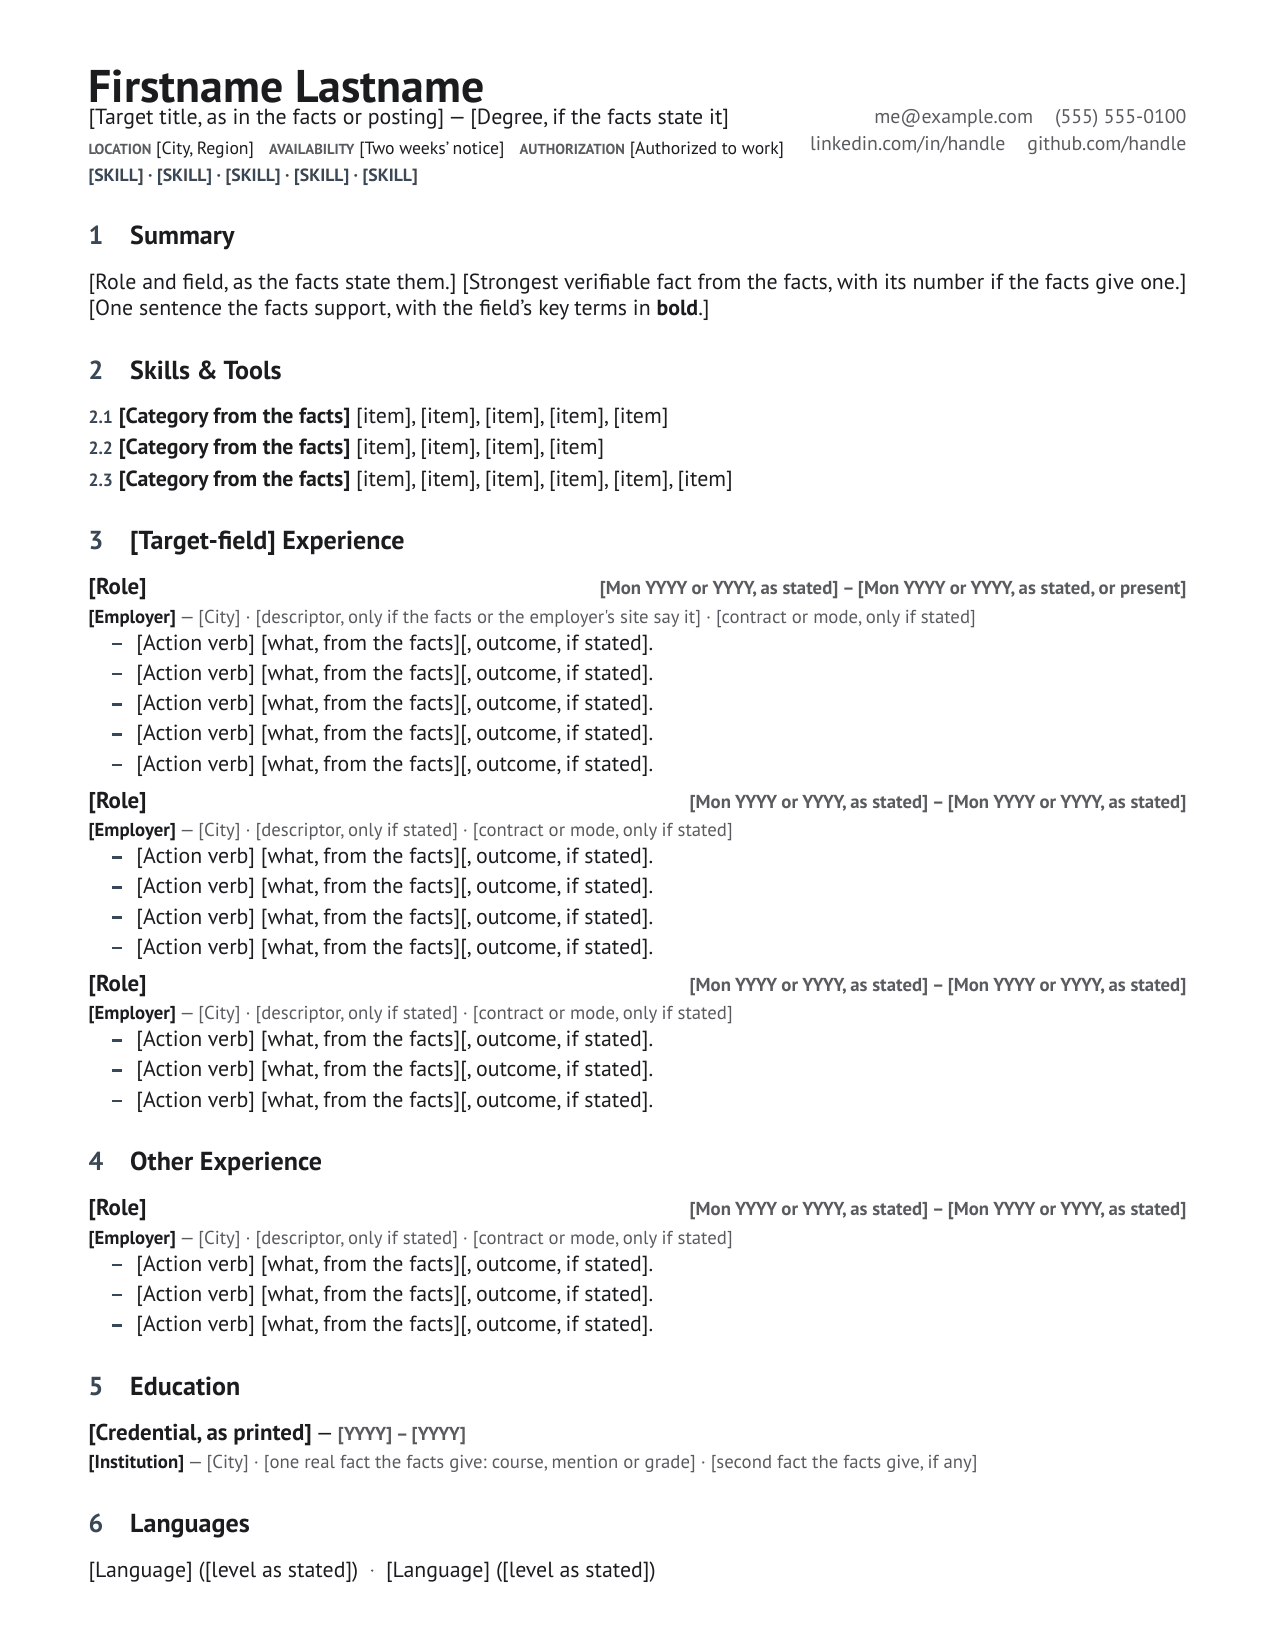
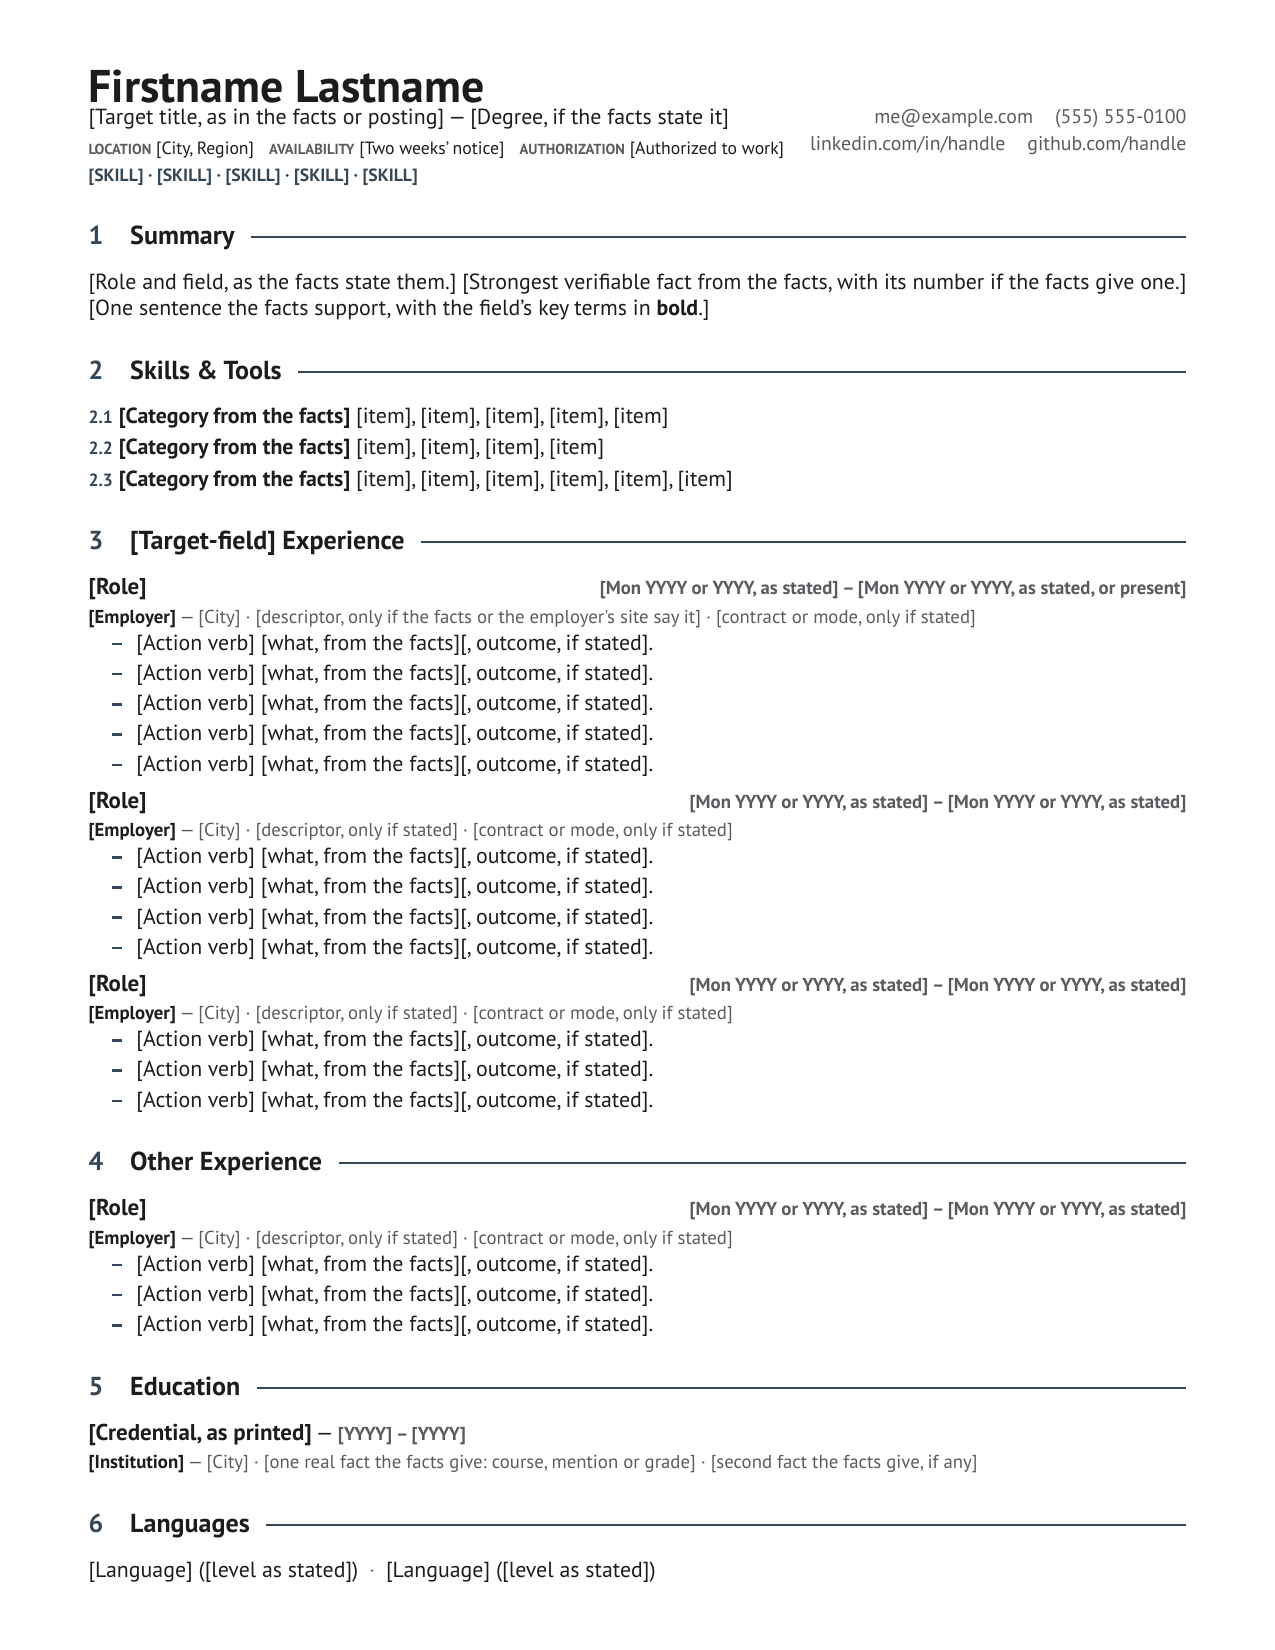
clause-index: section-rule option (inline default, under, under-short, none)
Section headings get a 1pt accent hairline filling the heading row by default; the
other values draw it under the heading, as a short bar under number and title, or not
at all (the original look). Space under the heading is unchanged for every value, so
résumé and pair-b stay on one page and the extracted text is identical (the rule is a
vector line). An unknown value is a compile error listing the valid ones. Test compiles
all four values on both templates (one page, same words, each draws differently) and
the error case. Fixture and gallery image regenerated; role-line ratio fixed in the
family doc (10.5pt, not 11pt).

diff --git a/tests/integration/test_clause_index_rule.py b/tests/integration/test_clause_index_rule.py
@@ -1,0 +1,56 @@
+"""clause-index `section-rule`: every value compiles to one page with the same extracted text (the rule is a vector
+line, never text), and a value outside the list is a compile error that names the valid ones."""
+from __future__ import annotations
+
+from pathlib import Path
+
+import pytest
+from vitae.core.env import pdf_backend
+from vitae.verify.pdf import count_pages, extract_text, typst_compile
+
+VALUES = ("inline", "under", "under-short", "none")
+DEFAULT = '#let section-rule = "inline"'
+
+
+def variant(scratch: Path, name: str, value: str) -> Path:
+    fam = scratch / "templates" / "families" / "clause-index"
+    src = (fam / f"{name}.typ").read_text(encoding="utf-8")
+    assert src.count(DEFAULT) == 1, f"{name}.typ: the section-rule declaration moved"
+    out = fam / f"_rule-{name}-{value}.typ"
+    out.write_text(src.replace(DEFAULT, f'#let section-rule = "{value}"'), encoding="utf-8")
+    return out
+
+
+def build(typ: Path) -> tuple[bool, str, Path]:
+    pdf = typ.with_suffix(".pdf")
+    ok, err = typst_compile(str(typ), str(pdf))
+    return ok, err, pdf
+
+
+@pytest.mark.parametrize("name", ["resume", "resume-pair-b"])
+def test_every_section_rule_is_one_page_and_text_neutral(scratch: Path, name: str) -> None:
+    backend = pdf_backend()
+    tokens: dict[str, list[str]] = {}
+    for value in VALUES:
+        ok, err, pdf = build(variant(scratch, name, value))
+        assert ok, f"{name} section-rule={value}: {err}"
+        assert count_pages(str(pdf), backend) == "1", f"{name} section-rule={value} is not one page"
+        tokens[value] = sorted(extract_text(str(pdf), backend).split())
+    for value in VALUES:
+        assert tokens[value] == tokens["none"], f"section-rule={value} changed the extracted words"
+
+
+def test_each_value_draws_something_different(scratch: Path) -> None:
+    # guards a value that silently falls through to another branch (e.g. to "none")
+    pdfs = {}
+    for value in VALUES:
+        ok, err, pdf = build(variant(scratch, "resume", value))
+        assert ok, err
+        pdfs[value] = pdf.read_bytes()
+    assert len(set(pdfs.values())) == len(VALUES)
+
+
+def test_unknown_section_rule_is_a_compile_error(scratch: Path) -> None:
+    ok, err, _ = build(variant(scratch, "resume", "double"))
+    assert not ok
+    assert "section-rule must be one of" in err and "under-short" in err

diff --git a/references/design/families/clause-index.md b/references/design/families/clause-index.md
@@ -1,10 +1,11 @@
 ## 11. clause-index — numbered-clause standard document · register: neutral
 
-The numbering-of-divisions convention of technical standards and specification documents (ISO 2145, DIN 1421), with a header borrowed from the German business-letter standard's reference line (DIN 676). Its device is a **number**, not a rule — distinct from `swiss-grid` (a rule above), `humanist-quiet` (no device) and `quiet-luxury` (a tick beside).
+The numbering-of-divisions convention of technical standards and specification documents (ISO 2145, DIN 1421), with a header borrowed from the German business-letter standard's reference line (DIN 676). Its device is a **number**; the hairline that follows the title is an option (`section-rule`, below), so it stays distinct from `swiss-grid` (a rule above), `humanist-quiet` (no device) and `quiet-luxury` (a tick beside).
 
-- **Heading device**: an **outdented clause number** in tabular figures, hanging in a fixed 20pt gutter, in the accent; the title flush at the text edge, 12.5pt bold `dark` (1.19x body, 1.14x the 11pt role line; no rule, the size and weight alone carry the boundary), title case. Single-ROW grid, number cell first, so extraction stays number → title → body. No rule, bar, fill or panel anywhere. Nobody else numbers its sections, and nobody else spends its accent only on numerals. **The number never replaces the conventional stem.** Harvested counter-evidence is explicit: an ordinal used *as* the label (`01` alone) costs the reader speed and costs the ATS its section classifier. `1 Experience` keeps both, and the stem rule from [`regional.md`](../../regional.md) still applies.
+- **Heading device**: an **outdented clause number** in tabular figures, hanging in a fixed 20pt gutter, in the accent; the title flush at the text edge, 12.5pt bold `dark` (1.19x the 10.5pt body and role line), title case. Single-ROW grid, number cell first, then the title, then the rule cell, so extraction stays number → title → body (the rule is a vector line: no text, no extraction change). No bar, fill or panel. Nobody else numbers its sections, and nobody else spends its accent only on numerals. **The number never replaces the conventional stem.** Harvested counter-evidence is explicit: an ordinal used *as* the label (`01` alone) costs the reader speed and costs the ATS its section classifier. `1 Experience` keeps both, and the stem rule from [`regional.md`](../../regional.md) still applies.
+- **`section-rule`** (`#let section-rule = "inline"` in the template, next to `band`; any other value is a compile error listing the four): `inline` (default) a 1pt accent hairline fills the rest of the heading row after the title; `under` a full-width 1pt accent rule under the heading; `under-short` a 1.5pt accent bar under the number and title only; `none` the original sober look, no rule. The space under the heading is the same for all four, so every value keeps one page and the same extracted text.
 - **Skills block**: a **sub-clause number** — the section's own number with a sub-index (`2.1`, `2.2` …) in the accent, then the bold label, then the items. Nobody else numbers its skills rows, and the numbering is the same device one level down rather than a second invention.
-- **Accent role**: the numbers, section and sub-clause. That is the whole budget — which is why the icons are gray here.
+- **Accent role**: the numbers, section and sub-clause, and the section hairline. That is the whole budget — which is why the icons are gray here.
 - **Icons**: **line** style in the **metadata gray**, never the accent; the platform marks follow, in the same gray.
 - **Header**: **name row, title | contact, then a reference row**. The name (22pt) on its own row; under it, left, the role line, a **reference row** of run-in label/value pairs (Location, Availability, Authorization; 8.5pt, sized to fit the left cell on one line) and the **specialities line** in the label register, so it reads as a data row and not as a slogan; right, a 2-line contact block (natural width, max 55% of the measure; also the photo slot; 9.5pt `muted`, half a point above the other three two-row headers because at 9pt Tesseract misread `li` as `Un` in `linkedin` at 150 dpi). The reference row and the specialities line stay *inside* the left cell deliberately: full width under the contact block, poppler emitted `LOCATION`, `AVAILABILITY`, the whole contact block, then `AUTHORIZATION`, and beside a 4-line contact column MuPDF `sort=True` glued the last contact line to the specialities line ([`ats.md`](../../ats.md)).
 - **Section order**: *skills-forward hybrid* — Summary, **Skills & Tools**, target-field experience, other experience, Education, Languages.
